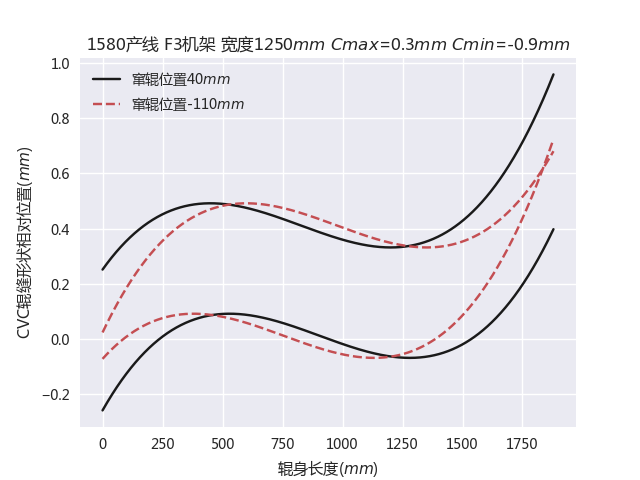
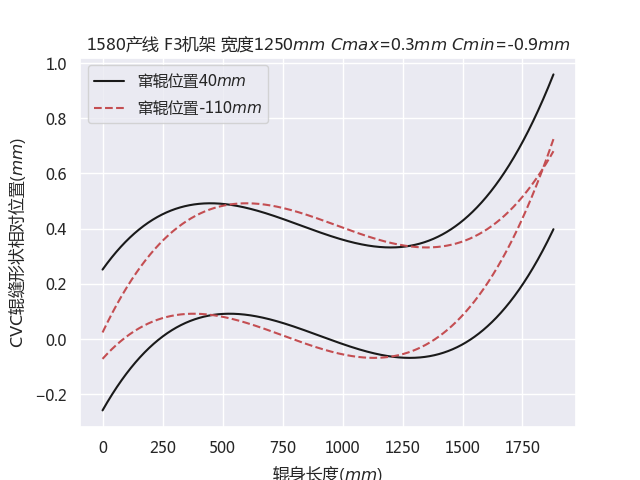
add old cvc plt text in plot optimized

diff --git a/rollen/profile/cvc.py b/rollen/profile/cvc.py
@@ -1,7 +1,7 @@
 import numpy as np
 import seaborn as sns
 import matplotlib.pyplot as plt
-
+from matplotlib import rc
 from .std import Stand
 from .roll import Roll
 
@@ -12,6 +12,21 @@ sns.set(rc={'font.sans-serif': [u'Microsoft YaHei', u'Arial',
                                 u'Liberation Sans', u'Bitstream Vera Sans',
                                 u'sans-serif']})
 # mpl.style.use('ggplot')
+
+# plt.rcParams['font.sans-serif'] = ['SimHei']  # 中文字体设置
+# plt.rcParams['axes.unicode_minus'] = False
+
+# rc('text', usetex=True)
+# rc('text.latex', unicode=True)
+# rc('text.latex', preamble=r'\usepackage[utf8]{inputenc}')
+# rc('text.latex', preamble=r'\usepackage[russian]{babel}')
+
+# font = {'family': 'serif',
+#         'serif': ['Computer Modern Unicode'],
+#         'size': 12,
+#         }
+
+# rc('font', **font)
 
 
 class ContinuouslyVariableCrown():

diff --git a/rollen/profile/plots.py b/rollen/profile/plots.py
@@ -54,10 +54,14 @@ def plot_shft_crn_optimized(line, std, wid, max_crn, min_crn):
     logging.info(new_cvc.max_crn)
     logging.info(new_cvc.min_crn)
 
-    coefs = [round(x, 16) for x in new_cvc.get_prof_coefs()]
+    old_coefs = [round(x, 16) for x in old_cvc.get_prof_coefs()]
+    new_coefs = [round(x, 16) for x in new_cvc.get_prof_coefs()]
+    logging.info(new_coefs)
 
-    plt.text(50, -200,
-             "新a1={}\n新a2={}\n新a3={}\n".format(coefs[1], coefs[2], coefs[3]))
+    plt.text(-150, -50, "原a1={}\n原a2={}\n原a3={}\n".format(
+        old_coefs[1], old_coefs[2], old_coefs[3]))
+    plt.text(50, -200, "新a1={}\n新a2={}\n新a3={}\n".format(
+        new_coefs[1], new_coefs[2], new_coefs[3]))
 
     plt.legend()
 

diff --git a/tests/test_cvc_plot.py b/tests/test_cvc_plot.py
@@ -10,9 +10,9 @@ def test_plot_shft_crn():
 
 
 def test_plot_shft_crn_optimized():
-    line = 1580
-    std = 3
-    wid = 1250
+    line = 2250
+    std = 4
+    wid = 1650
     new_max_crn = 0.3
     new_min_crn = -0.7
     plot_shft_crn_optimized(line, std, wid, new_max_crn, new_min_crn)

diff --git a/.pytest_cache/README.md b/.pytest_cache/README.md
@@ -1,0 +1,8 @@
+# pytest cache directory #
+
+This directory contains data from the pytest's cache plugin,
+which provides the `--lf` and `--ff` options, as well as the `cache` fixture.
+
+**Do not** commit this to version control.
+
+See [the docs](https://docs.pytest.org/en/latest/cache.html) for more information.
